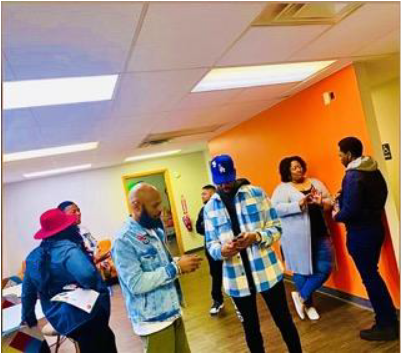
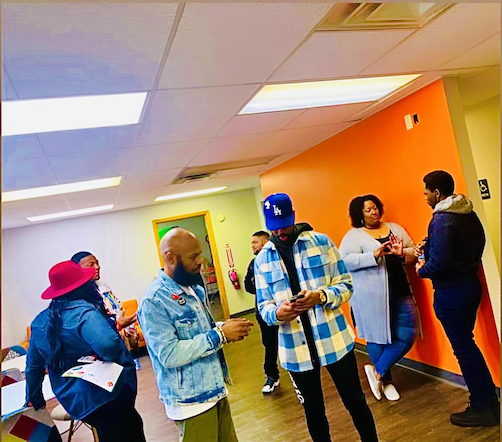
Make bod image bigger. various finetuning

diff --git a/components/BOD.jsx b/components/BOD.jsx
@@ -47,8 +47,8 @@ const bodMembers = [
 
 function BoardOfDirectors(props) {
   return (
-    <StyledColumns style={{ marginTop: "5vw", marginLeft: "5vw" }}>
-      <div>
+    <StyledColumns style={{ marginTop: "5vw" }}>
+      <div  style={{ display: "block", marginLeft: "5vw"}}>
         < StyledImageWrapper>
           <Image
             src="/images/fun2.png"
@@ -58,19 +58,19 @@ function BoardOfDirectors(props) {
           />
         </StyledImageWrapper>
       </div>
-      <div style={{ marginLeft: "8vw", width: "100%" }}>
-        <StyledBODWrapper>
-          <div style={{ width: "100%", height: "2vw" }}></div>
-          <div class="h2-fluid">Board Of Directors</div>
-          <ul>
-            <li><StyledNameWrapper><div class="h3-fluid">{bodMembers[0]}</div></StyledNameWrapper></li>
-            <li><StyledNameWrapper><div class="h3-fluid">{bodMembers[1]}</div></StyledNameWrapper></li>
-            <li><StyledNameWrapper><div class="h3-fluid">{bodMembers[2]}</div></StyledNameWrapper></li>
-            <li><StyledNameWrapper><div class="h3-fluid">{bodMembers[3]}</div></StyledNameWrapper></li>
-            <li><StyledNameWrapper><div class="h3-fluid">{bodMembers[4]}</div></StyledNameWrapper></li>
-          </ul>
-        </StyledBODWrapper>
-      </div>
+
+      <StyledBODWrapper style={{marginLeft: "5vw"}}>
+        <div style={{ width: "100%", height: "2vw" }}></div>
+        <div class="h2-fluid">Board Of Directors</div>
+        <ul>
+          <li><StyledNameWrapper><div class="h3-fluid">{bodMembers[0]}</div></StyledNameWrapper></li>
+          <li><StyledNameWrapper><div class="h3-fluid">{bodMembers[1]}</div></StyledNameWrapper></li>
+          <li><StyledNameWrapper><div class="h3-fluid">{bodMembers[2]}</div></StyledNameWrapper></li>
+          <li><StyledNameWrapper><div class="h3-fluid">{bodMembers[3]}</div></StyledNameWrapper></li>
+          <li><StyledNameWrapper><div class="h3-fluid">{bodMembers[4]}</div></StyledNameWrapper></li>
+        </ul>
+      </StyledBODWrapper>
+
     </StyledColumns>
   )
 }

diff --git a/components/SubscribeBanner.jsx b/components/SubscribeBanner.jsx
@@ -20,18 +20,18 @@ function SubscribeBanner(props) {
     return (
         <StyledContainer>
             <StyledSectionContentWrapper>
-                <StyledColumns style={{ marginLeft: "5vw" }}>
+                <StyledColumns style={{ marginTop: "5vw", marginLeft: "5vw" }}>
                     <div>
-                    <StyledImageWrapper>
-                        <Image
-                            src="/images/isiah-keith.png"
-                            width="502"
-                            height="444"
-                            alt="join"
-                        />
-                    </StyledImageWrapper>
-                    </div>
-                    <div style={{ marginTop: "8vw", marginLeft: "5vw" }}>
+                        <StyledImageWrapper>
+                            <Image
+                                src="/images/isiah-keith.png"
+                                width="612"
+                                height="524"
+                                alt="isiah-keith"
+                            />
+                        </StyledImageWrapper>
+                </div>
+                    <div style={{ marginTop: "8vw", marginLeft: "3vw" }}>
                         <StyledH3 >Join our email list for updates</StyledH3>
                         <Subscription
                             formDescription={""}

diff --git a/pages/index.js b/pages/index.js
@@ -33,7 +33,7 @@ function Home(props) {
         <StyledMain>
           <StyledSectionAnchor id={"home"} />
           <StyledSection index={0}>
-            <StyledColumns style={{ margin: "calc(0.5rem + 1vw)", marginLeft: "0.5vw", padding: "calc(2rem + 0.2vw)" }}>
+            <StyledColumns style={{ margin: "calc(0.5rem + 1vw)", marginLeft: "0.5vw", marginTop: "5vw", padding: "calc(2rem + 0.2vw)" }}>
 
               <div style={{ display: "block", margin: "auto", width: "100%" }}>
                 <StyledLogoWrapper>
